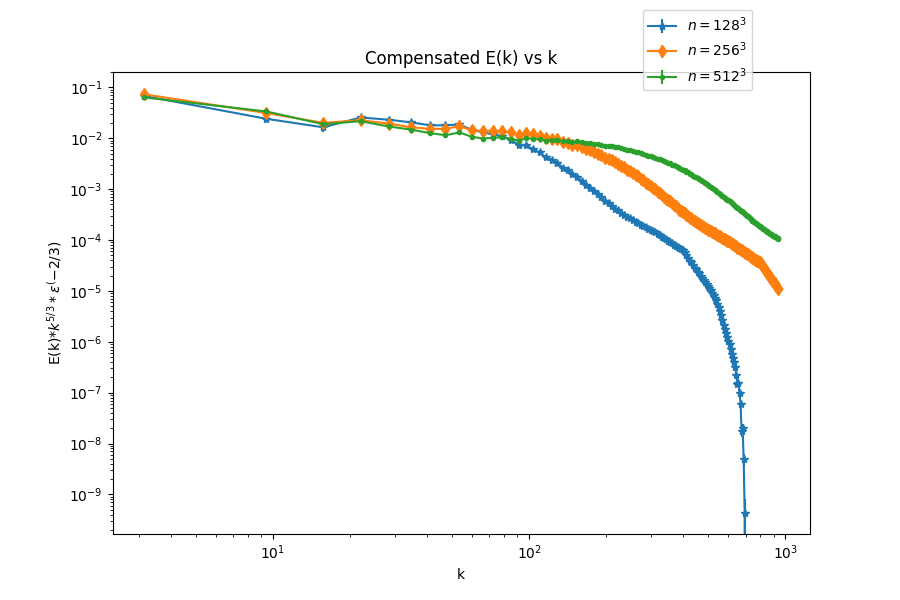
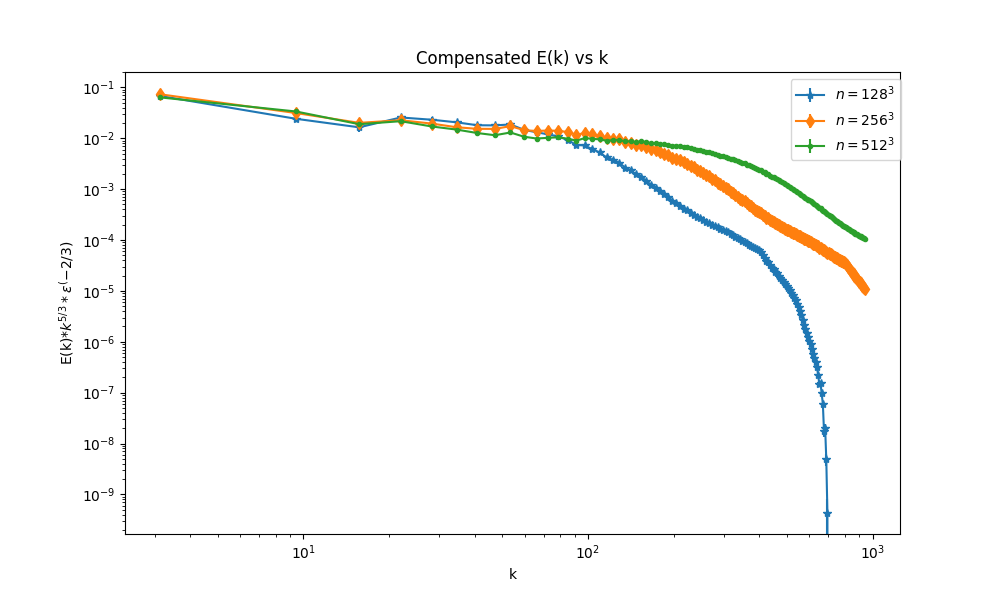
Small Modification of plots

diff --git a/diff_resolution.py b/diff_resolution.py
@@ -112,7 +112,7 @@ del_Ek_comp4=np.std(Ekcomp4,0)
 
 #Here we plot the compensated power spectrum, multiplying E(k) with k^(5/3)
 fig, ax = plt.subplots()
-fig.set_size_inches(9, 6)
+fig.set_size_inches(10, 6)
 yerr=del_Ek_comp3
 ax.errorbar(k1,Ek_comp1,yerr=del_Ek_comp1,fmt='*-',label=r'$n=128^3$')
 ax.errorbar(k2,Ek_comp2,yerr=del_Ek_comp2,fmt='d-',label=r'$n=256^3$')
@@ -122,7 +122,7 @@ ax.set_yscale('log')
 ax.set_xscale('log')
 plt.xlabel('k')
 plt.ylabel('E(k)*$k^{5/3}*\epsilon^(-2/3)$')
-leg = ax.legend(loc=2, bbox_to_anchor=(0.75, 1.15))
+leg = ax.legend(loc=2, bbox_to_anchor=(0.85, 1))
 plt.title('Compensated E(k) vs k' )
 plt.savefig('E_k_compensated_diff_resolution_fiducial.png')
 
